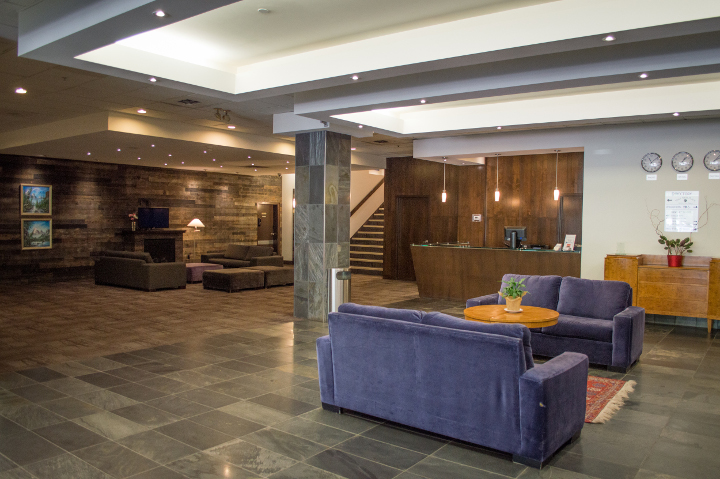
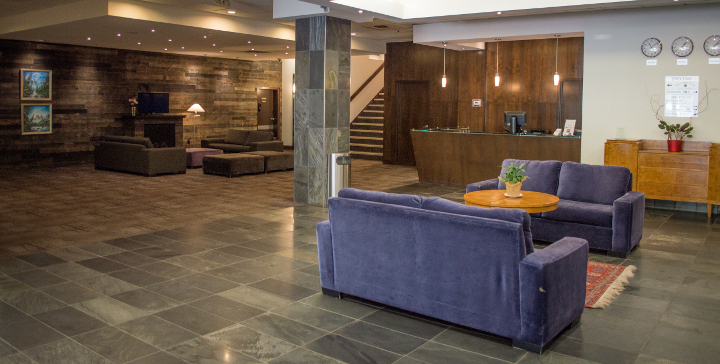
change expedia image to better image

diff --git a/dist/css/main.css b/dist/css/main.css
@@ -143,6 +143,8 @@ i {
       display: grid;
       height: 85px;
       align-content: center; }
+      .reviews-grid .agg-review .reviewer-logo img {
+        max-width: 100%; }
 
 .pills {
   display: grid;
@@ -246,7 +248,8 @@ i {
       padding: 10px 0;
       margin: 0 auto; }
       .content-container .content-group .c-content-text img {
-        max-width: 95%; }
+        max-width: 100%;
+        box-shadow: 0px 24px 67px -40px rgba(0, 0, 0, 0.75); }
     .content-container .content-group .c-headline {
       padding-right: 4rem;
       text-transform: uppercase;
@@ -526,4 +529,4 @@ footer {
 
 .contact-form {
   display: none; }
[2 lines of base64/hex data omitted]

diff --git a/dist/home.html b/dist/home.html
@@ -1,17 +1,18 @@
 <div class="content-container">
-  <div class="content-group pure-g extra-padding-bottom">
+  <div class="content-group pure-g">
     <div class="c-headline pure-u-1 pure-u-lg-1-4">
       <p class="c-headline-1">Sea to Sky</p>
       <p class="c-headline-2">Hotel</p>
     </div>
     <div class="c-content-text pure-u-1 pure-u-lg-3-4">
+      <img width="100%" src="img/lobby-1.jpg" alt="Hotel Lobby">
       <p>
         The Sea to Sky Hotel is nestled in the Garibaldi Provincial Park on the Sea to Sky Hwy, a few minutes north of Squamish,  70 km away from Vancouver B.C. and 30 minutes drive to Whistler, the North America’s foremost all year-round mountain resort. Outside our doors are unlimited attractions, outdoor activities, and shopping.
       </p>
     </div>
   </div>
 
-  <div class="content-group pure-g extra-padding-bottom">
+  <div class="content-group pure-g">
       <div class="c-headline pure-u-1 pure-u-lg-1-4">
         <p class="c-headline-1">Rooms</p>
         <p class="c-headline-2"></p>
@@ -70,7 +71,7 @@
         <a href="#" data-linkto="#">see all</a>
       </p> -->
     </div>
-    <div class="c-content-text pure-u-1 pure-u-lg-3-4">
+    <div class="pure-u-1 pure-u-lg-3-4">
       <div class="reviews-grid">
         {{#each reviews}}
             <div class="agg-review" data-linkto="{{review-link}}">

diff --git a/src/home.html b/src/home.html
@@ -1,17 +1,18 @@
 <div class="content-container">
-  <div class="content-group pure-g extra-padding-bottom">
+  <div class="content-group pure-g">
     <div class="c-headline pure-u-1 pure-u-lg-1-4">
       <p class="c-headline-1">Sea to Sky</p>
       <p class="c-headline-2">Hotel</p>
     </div>
     <div class="c-content-text pure-u-1 pure-u-lg-3-4">
+      <img width="100%" src="img/lobby-1.jpg" alt="Hotel Lobby">
       <p>
         The Sea to Sky Hotel is nestled in the Garibaldi Provincial Park on the Sea to Sky Hwy, a few minutes north of Squamish,  70 km away from Vancouver B.C. and 30 minutes drive to Whistler, the North America’s foremost all year-round mountain resort. Outside our doors are unlimited attractions, outdoor activities, and shopping.
       </p>
     </div>
   </div>
 
-  <div class="content-group pure-g extra-padding-bottom">
+  <div class="content-group pure-g">
       <div class="c-headline pure-u-1 pure-u-lg-1-4">
         <p class="c-headline-1">Rooms</p>
         <p class="c-headline-2"></p>
@@ -70,7 +71,7 @@
         <a href="#" data-linkto="#">see all</a>
       </p> -->
     </div>
-    <div class="c-content-text pure-u-1 pure-u-lg-3-4">
+    <div class="pure-u-1 pure-u-lg-3-4">
       <div class="reviews-grid">
         {{#each reviews}}
             <div class="agg-review" data-linkto="{{review-link}}">

diff --git a/src/scss/_main-content.scss b/src/scss/_main-content.scss
@@ -50,7 +50,8 @@
       margin: 0 auto;
 
       img{
-        max-width: 95%
+        max-width: 100%;
+        box-shadow: 0px 24px 67px -40px rgba(0,0,0,0.75);
       }
     }
     

diff --git a/src/scss/_molecules.scss b/src/scss/_molecules.scss
@@ -78,6 +78,9 @@ i{
       display: grid;
       height: 85px;
       align-content: center;
+      img{
+        max-width: 100%;
+      }
     }
   }
 }
